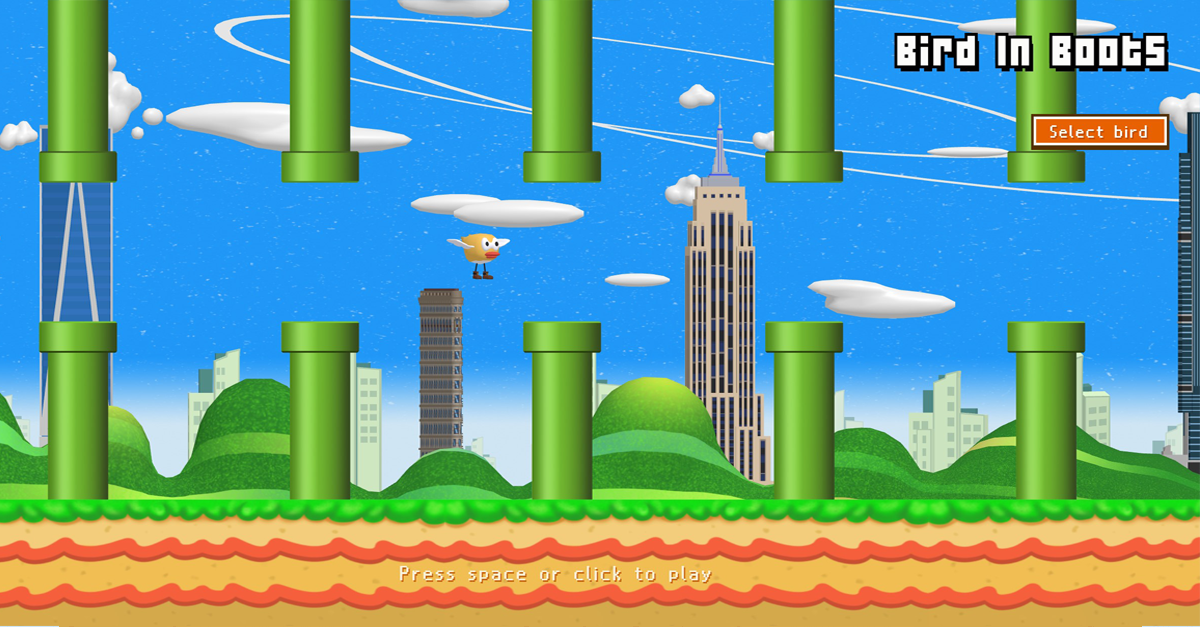
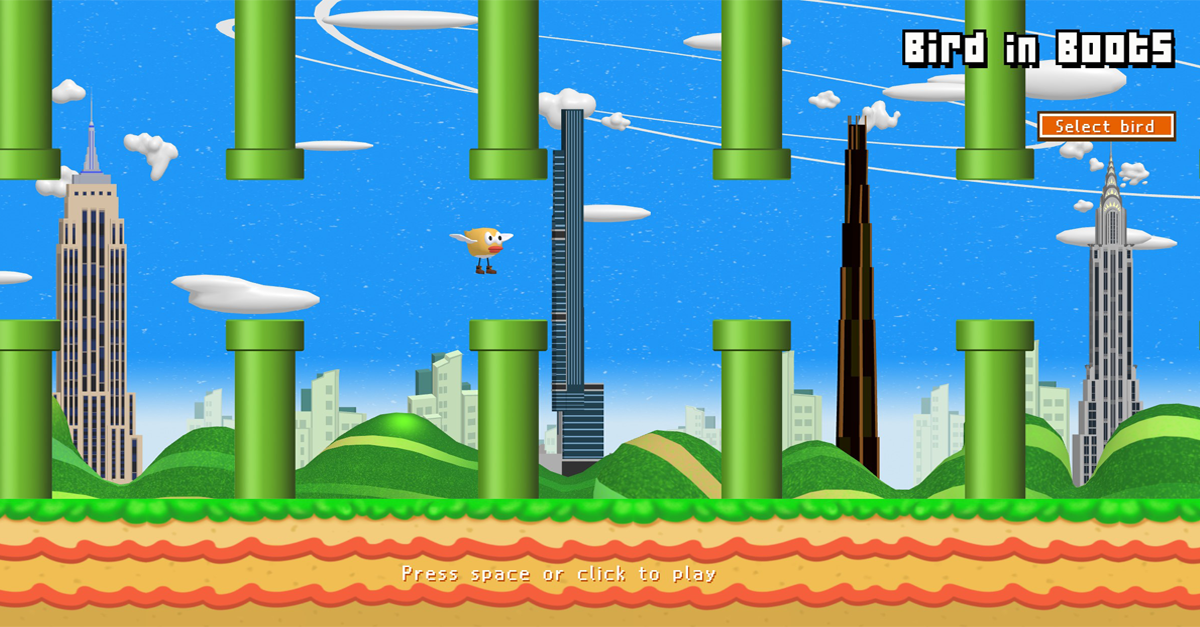
Title styles improvement

diff --git a/src/styles/components/InteractUI.module.scss b/src/styles/components/InteractUI.module.scss
@@ -194,6 +194,7 @@
     .game_title_area {
       position: relative;
       font-size: 60px;
+      white-space: nowrap;
 
       .game_title {
         color: $white;
@@ -209,6 +210,10 @@
         user-select: none;
 
         -webkit-text-stroke: 1px $black;
+
+        span {
+          font-size: 55px;
+        }
       }
     }
 
@@ -315,11 +320,18 @@
   @include phones {
     .right_area {
       margin-right: 20px;
-      margin-top: 25px;
 
       .game_title_area {
-        font-size: 55px;
+        font-size: 45px;
         line-height: 1.3;
+        text-align: right;
+
+        .game_title {
+          span {
+            font-size: 40px;
+            margin: 0 -3px;
+          }
+        }
       }
 
       .main_menu {
@@ -351,7 +363,7 @@
       margin-top: 20px;
 
       .game_title_area {
-        font-size: 45px;
+        font-size: 42px;
 
         .game_title {
           text-shadow:
@@ -360,6 +372,10 @@
             4px -3px 0 $black,
             -4px 3px 0 $black,
             4px 7px 0 $black;
+
+          span {
+            font-size: 38px;
+          }
         }
       }
 
@@ -413,7 +429,7 @@
     }
 
     .right_area {
-      margin-top: 20px;
+      margin-top: 42px;
       margin-right: 30px;
 
       .game_title_area {
@@ -426,12 +442,21 @@
             4px -4px 0 $black,
             -4px 4px 0 $black,
             6px 7px 0 $black;
+
+          span {
+            font-size: 38px;
+          }
         }
       }
 
       .main_menu,
       .bird_selection_menu {
         margin-top: 20px;
+      }
+
+      .bird_selection_menu {
+        flex-direction: row-reverse;
+        gap: 20px;
       }
     }
 

diff --git a/index.html b/index.html
@@ -1,4 +1,4 @@
-<!doctype html>
+<!DOCTYPE html>
 <html lang="en">
   <head>
     <!-- MAIN META -->
@@ -38,14 +38,14 @@
     />
     <meta
       name="description"
-      content="Play Bird in Boots now remaked in 3D for free online in HTML5 - online game of the flappy bird"
+      content="Play Bird in Boots now remaked in 3D for free online in HTML5 - online flappy style game"
     />
 
     <!-- OG META TAGS -->
     <meta property="og:title" content="Play Bird in Boots 3D" />
     <meta
       property="og:description"
-      content="Play Bird in Boots now remaked in 3D for free online in HTML5 - online game of the flappy bird"
+      content="Play Bird in Boots now remaked in 3D for free online in HTML5 - online flappy style game"
     />
     <meta property="og:image" content="https://birdinboots.tanuki3d.com/meta_images/bird_in_boots.png" />
     <meta property="og:url" content="https://birdinboots.tanuki3d.com/" />
@@ -56,7 +56,7 @@
     <meta name="twitter:title" content="Play Bird in Boots 3D" />
     <meta
       name="twitter:description"
-      content="Play Bird in Boots now remaked in 3D for free online in HTML5 - online game of the flappy bird"
+      content="Play Bird in Boots now remaked in 3D for free online in HTML5 - online flappy style game"
     />
     <meta name="twitter:image" content="https://birdinboots.tanuki3d.com/meta_images/bird_in_boots.png" />
 

diff --git a/src/styles/components/Button.module.scss b/src/styles/components/Button.module.scss
@@ -15,6 +15,7 @@
     color: $white;
     letter-spacing: 3px;
     font-size: 34px;
+    line-height: 0.85;
     font-weight: 600;
     padding: 0px 10px;
     text-shadow: 2px 2px 0px $dark_orange;
@@ -71,7 +72,7 @@
     min-width: 200px;
 
     .btn_content {
-      padding: 0px 10px;
+      padding: 2px 10px;
       font-size: 28px;
     }
   }
@@ -80,6 +81,7 @@
     min-width: 200px;
 
     .btn_content {
+      padding: 3px 10px;
       font-size: 25px;
       border: 3px solid $white;
     }

diff --git a/src/components/UI/InteractUI.tsx b/src/components/UI/InteractUI.tsx
@@ -186,7 +186,9 @@ const InteractUI = () => {
     return (
       <div className={`${right_area} ${exiting_class}`}>
         <div className={game_title_area}>
-          <div className={game_title}>Bird In Boots</div>
+          <div className={game_title}>
+            Bird <span>in</span> Boots
+          </div>
         </div>
 
         {getMenu()}
